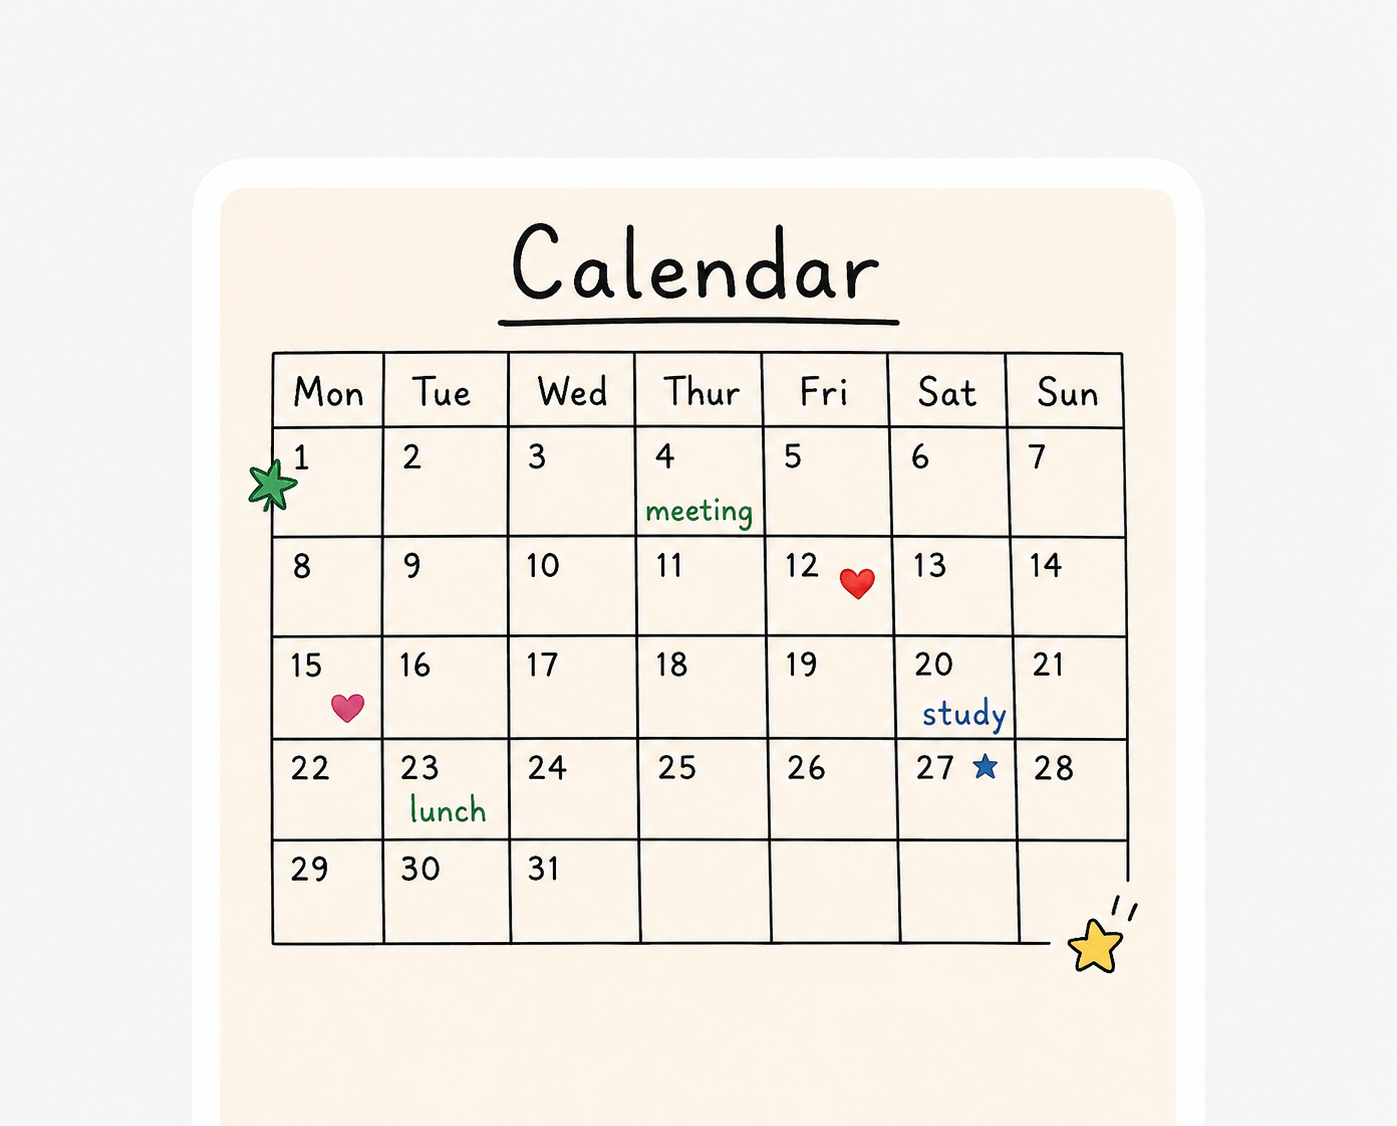
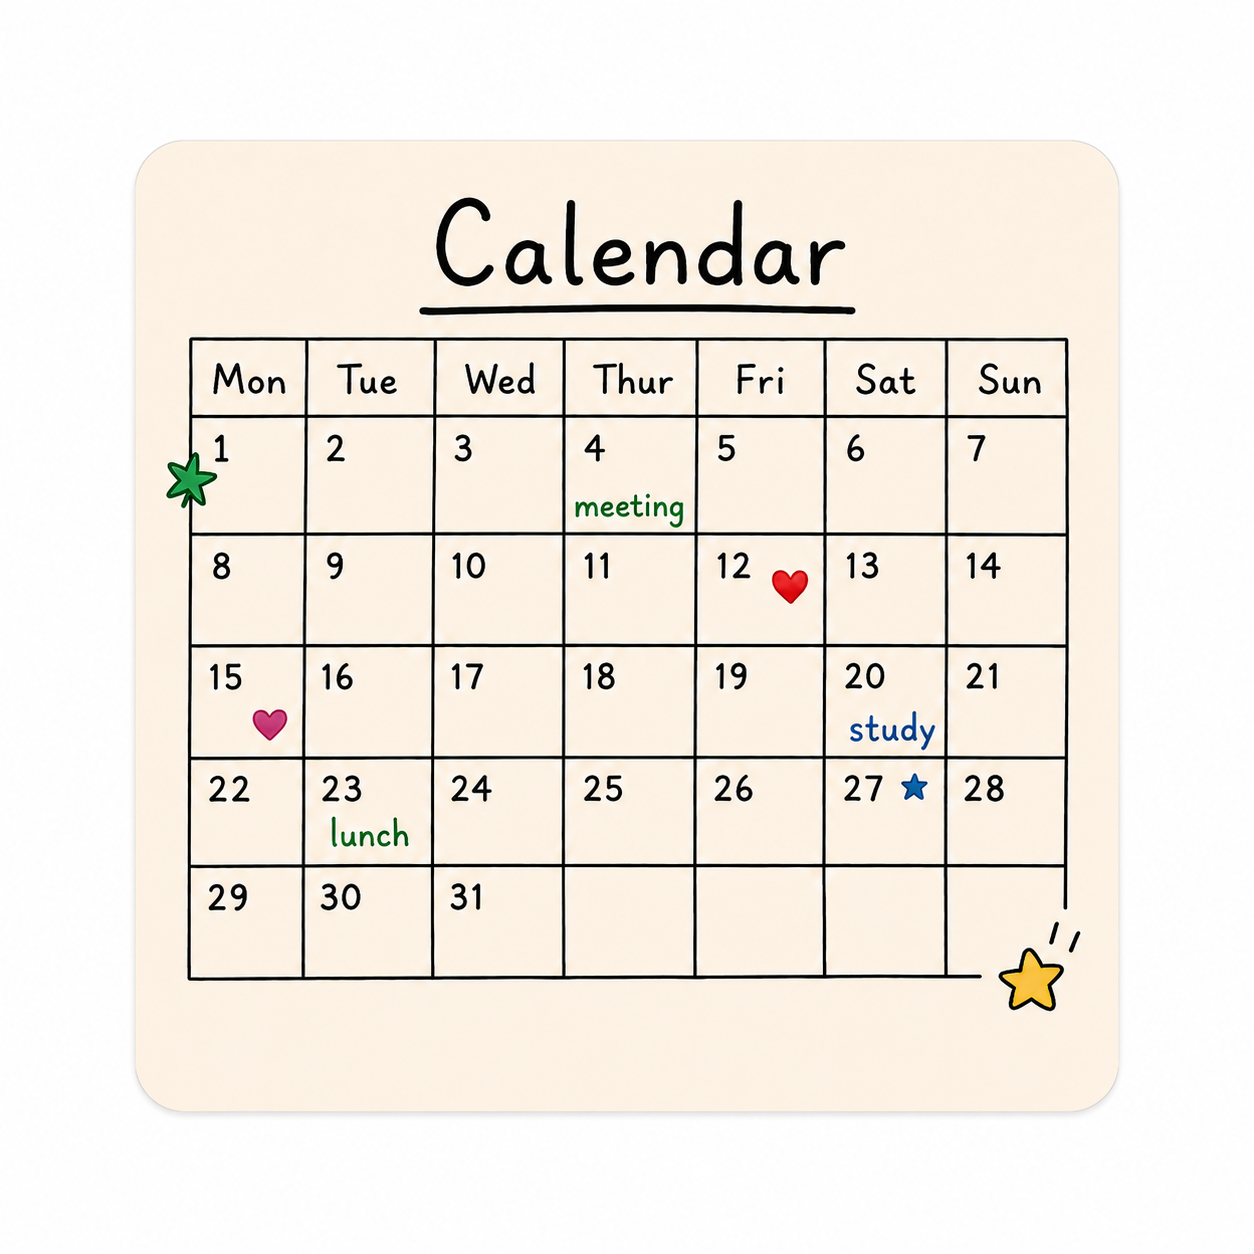
style(ui): adjust image size

Changed region(s): [[0.1244, 0.1243, 0.8708, 0.9014]]

diff --git a/Calendar_Pages/templates/dashboard.html b/Calendar_Pages/templates/dashboard.html
@@ -19,7 +19,7 @@
             <div class="logo-box">
 
              <img
-              src="/calendar_static/img/L.png"
+              src="/calendar_static/images/LifePages.png"
               alt="Life Pages">
 
            </div>
@@ -72,7 +72,7 @@
                     <div class="icon-box">
 
                       <img
-                      src="/calendar_static/img/finance.jpeg"
+                      src="/calendar_static/images/finance.png"
                       alt="Finance">
 
                       </div>
@@ -159,7 +159,7 @@
                     <div class="icon-box">
 
                       <img
-                       src="/calendar_static/img/heart.png"
+                       src="/calendar_static/images/Diary.png"
                        alt="Diary">
 
                     </div>
@@ -205,7 +205,7 @@
                     <div class="icon-box">
 
                      <img
-                     src="/calendar_static/img/calendar.png"
+                     src="/calendar_static/images/Calendar.png"
                      alt="Calendar">
 
                     </div>

diff --git a/Calendar_Pages/static/dashboard.css b/Calendar_Pages/static/dashboard.css
@@ -64,6 +64,26 @@ body{
 
 }
 
+.icon-box img{
+
+    width:85%;
+    height:85%;
+
+    object-fit:contain;
+
+}
+
+.logo-box img{
+
+    width:100%;
+    height:100%;
+
+    object-fit:cover;
+
+    border-radius:14px;
+
+}
+
 /* NAME（Life Pages) */
 
 .logo-text{
